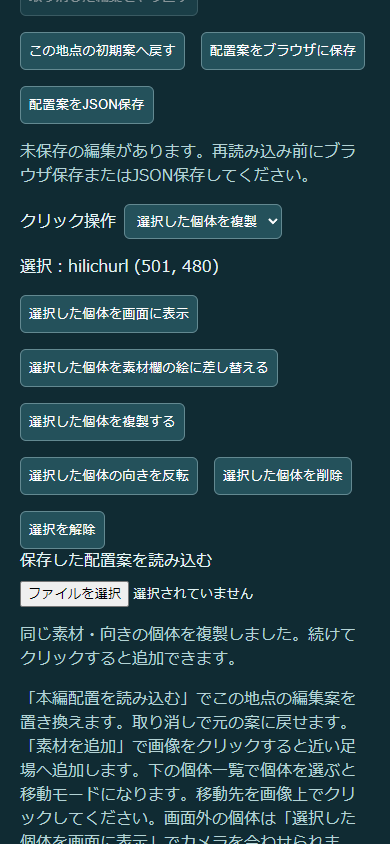
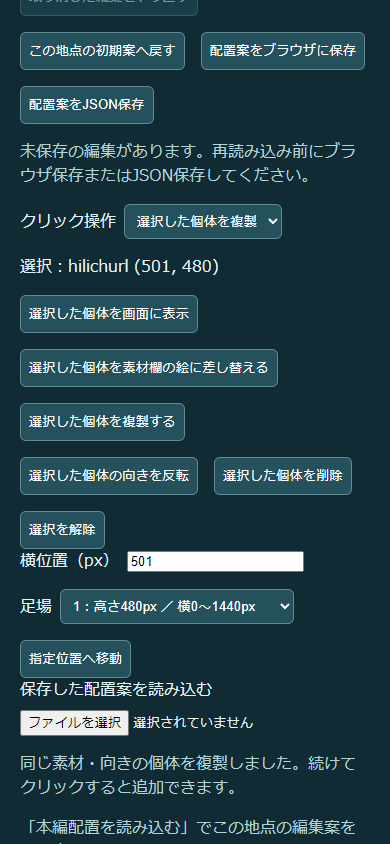
Add precise placement coordinates and platform selection

Changed region(s): [[0.0308, 0.6469, 0.9231, 1.0], [0.7692, 0.7393, 0.8923, 0.7701]]

diff --git a/map-art.html b/map-art.html
@@ -7,7 +7,7 @@
 <p id="browserStatus" class="note" role="status">ブラウザ保存は手動です。全地点の案をこのブラウザ・接続先に保存します。</p>
 <div class="controls"><label>クリック操作 <select id="editMode"><option value="add">素材を追加</option><option value="move">選択した個体を移動</option><option value="copy">選択した個体を複製</option></select></label><span id="selectionStatus">選択なし</span><button id="focusSelected" disabled>選択した個体を画面に表示</button><button id="replaceSelected" disabled>選択した個体を素材欄の絵に差し替える</button><button id="copySelected" disabled>選択した個体を複製する</button><button id="flipSelected" disabled>選択した個体の向きを反転</button><button id="deleteSelected" disabled>選択した個体を削除</button><button id="clearSelection" disabled>選択を解除</button></div>
 <label>保存した配置案を読み込む <input id="import" type="file" accept=".json,application/json"></label><p id="fileStatus" role="status" class="note">読み込むと全地点の編集案を置き換えます。必要な案は先にJSON保存してください。</p>
-<p class="note">「本編配置を読み込む」でこの地点の編集案を置き換えます。取り消しで元の案に戻せます。「素材を追加」で画像をクリックすると近い足場へ追加します。下の個体一覧で個体を選ぶと移動モードになります。移動先を画像上でクリックしてください。画面外の個体は「選択した個体を画面に表示」でカメラを合わせられます。配置座標は変わりません。素材欄で絵を選び「差し替える」を押すと、選択個体の座標・向き・IDを保って絵を変更します。素材ごとの大きさと浮き高さは変わります。「複製する」を押して画像上の置きたい場所をクリックすると、同じ素材・向きの個体を追加します。複製後もクリックを続けて追加できます。終了するにはクリック操作を変更してください。移動・複製・差し替え・反転・削除も取り消せます。「やり直す」で取り消した編集を復元します。取り消した後に新しく編集すると、その地点のやり直し履歴は消えます。別地点へ移っても案はこの画面内で保持します。再読み込みでは最後のブラウザ保存を復元します。未保存の編集と取り消し・やり直し履歴は失われます。別のブラウザや接続先へ移す場合はJSON保存してください。</p>
+<p class="note">「本編配置を読み込む」でこの地点の編集案を置き換えます。取り消しで元の案に戻せます。「素材を追加」で画像をクリックすると近い足場へ追加します。下の個体一覧で個体を選ぶと移動モードになります。移動先を画像上でクリックしてください。画面外の個体は「選択した個体を画面に表示」でカメラを合わせられます。配置座標は変わりません。横位置と足場を指定して「指定位置へ移動」を押すと正確な位置へ移せます。横位置は画面内ではなく地点全体の座標です。素材欄で絵を選び「差し替える」を押すと、選択個体の座標・向き・IDを保って絵を変更します。素材ごとの大きさと浮き高さは変わります。「複製する」を押して画像上の置きたい場所をクリックすると、同じ素材・向きの個体を追加します。複製後もクリックを続けて追加できます。終了するにはクリック操作を変更してください。移動・複製・差し替え・反転・削除も取り消せます。「やり直す」で取り消した編集を復元します。取り消した後に新しく編集すると、その地点のやり直し履歴は消えます。別地点へ移っても案はこの画面内で保持します。再読み込みでは最後のブラウザ保存を復元します。未保存の編集と取り消し・やり直し履歴は失われます。別のブラウザや接続先へ移す場合はJSON保存してください。</p>
 <p class="note">ボスは素材比較画面と同じ仮の大きさです。浮遊素材は足場の基準点から仮の高さだけ離して表示します（一覧に「浮き」を表示）。水・炎など地面側の表現を含む素材は下端を足場へ合わせます。高さは見た目比較用で、本編の飛行高度・当たり判定ではありません。</p>
 <main><figure><figcaption>元PNG</figcaption><canvas id="png" width="960" height="540"></canvas></figure><figure><figcaption>軽量矩形版</figcaption><canvas id="rect" width="960" height="540"></canvas></figure></main>
 <div id="placements"></div><section aria-label="本編配置との差分"><h2>本編配置との差分</h2><button id="compareLive">本編との差分を確認・更新</button><p id="diffSummary" role="status"></p><ul id="diffDetails"></ul><p class="note">同じ個体IDを照合します。比較基準は取得時点の配置です。本編への反映や自動保存は行いません。</p></section><p id="status" role="status">読み込み中</p><script type="module" src="map-art.js"></script></html>

diff --git a/map-art.js b/map-art.js
@@ -1,3 +1,4 @@
+import {setupPlacementPosition} from './placement-position.js';
 import {setupMapNodePicker} from './map-node-picker.js';
 import {loadImageSet} from './sprite-images.js';
 import {setupPlacementPicker} from './placement-picker.js';
@@ -49,6 +50,7 @@ try{
  };
  let lastRenderedDraft=JSON.stringify(drafts);
  for(const n of graph.nodes){const option=document.createElement('option');option.value=n.id;option.textContent=`${n.region}｜${n.name}`;$('node').append(option)}$('node').value='mond-road';
+ const positionEditor=setupPlacementPosition({getNode:node,getSelected:()=>placements().find(e=>e.id===selected),commit:(e,x,y)=>{remember(node().id);e.x=x;e.y=y;render()},report:text=>{$('fileStatus').textContent=text}});
  const nodePicker=setupMapNodePicker({graph,select:$('node'),getDraft:()=>drafts,onChoose:select});
  function node(){return nodes.get($('node').value)}
  function placements(){return drafts.nodes[node().id]??=[]}
@@ -75,7 +77,7 @@ try{
   const describe=e=>`${e.species} (${e.x}, ${e.y}) ${e.flip?'反転':'元の向き'}`;
   const line=text=>{const li=document.createElement('li');li.textContent=text;$('diffDetails').append(li)};
   if(diff){for(const e of diff.added)line(`追加 ${e.id}：${describe(e)}`);for(const e of diff.removed)line(`削除 ${e.id}：${describe(e)}`);for(const e of diff.changed){const names={species:'敵種',x:'横位置',y:'足場の高さ',flip:'向き'};line(`変更 ${e.id}［${e.fields.map(k=>names[k]).join('・')}］：${describe(e.before)} → ${describe(e.after)}`)}}
-  nodePicker.update();
+  nodePicker.update();positionEditor.update();
   window.mapArt={diff,ready:true,node:n.id,nodeCount:nodes.size,camera,profile,count:items.length,selected,editMode:$('editMode').value,placements:structuredClone(items),visuals:items.map(e=>({id:e.id,y:e.y-assets[e.species].hover,hover:assets[e.species].hover,height:assets[e.species].h})),grounded:valid,background:sceneryKey(frame),backgroundFallback:!mapped,backgroundState:background.state,backgroundFile:background.file};
  }
  function remember(id){const history=histories[id]??=[];history.push(structuredClone(drafts.nodes[id]??[]));if(history.length>100)history.shift();delete redos[id]}

diff --git a/placement-position.js b/placement-position.js
@@ -1,0 +1,22 @@
+// Explicit apply keeps unfinished coordinate input out of the placement draft.
+export function setupPlacementPosition({getNode,getSelected,commit,report}){
+ const controls=document.createElement('div');controls.className='controls';
+ controls.innerHTML='<label>横位置（px） <input id="placementX" type="number" min="0" step="any" disabled></label><label>足場 <select id="placementPlatform" disabled></select></label><button id="applyPlacementPosition" disabled>指定位置へ移動</button>';
+ document.getElementById('selectionStatus').closest('.controls').after(controls);
+ const x=controls.querySelector('input'),platform=controls.querySelector('select'),apply=controls.querySelector('button');
+ let signature='';
+ apply.onclick=()=>{
+  const n=getNode(),e=getSelected();if(!e)return;
+  const value=x.value.trim()===''?NaN:Number(x.value),support=n.platforms[Number(platform.value)];
+  if(!Number.isFinite(value)||!support||platform.value===''||value<0||value>n.width||value<support.x||value>support.x+support.w){report('指定位置へ移動できません。選んだ足場の範囲内の横位置を入力してください。配置案は変更していません。');return}
+  if(e.x===value&&e.y===support.y){report('同じ位置です。配置案は変わりません。');return}
+  commit(e,value,support.y);report('指定位置へ移動しました。絵・向き・IDは保持しています。取り消しで戻せます。');
+ };
+ return {update(){
+  const n=getNode(),e=getSelected(),next=JSON.stringify([n.id,n.platforms,e?.id,e?.x,e?.y]);
+  for(const control of [x,platform,apply])control.disabled=!e;
+  if(next===signature)return;signature=next;
+  platform.replaceChildren(...n.platforms.map((p,i)=>{const option=document.createElement('option');option.value=String(i);option.textContent=`${i+1}：高さ${p.y}px ／ 横${Math.max(0,p.x)}〜${Math.min(n.width,p.x+p.w)}px`;return option}));
+  x.max=n.width;x.value=e?String(e.x):'';platform.value=e?String(n.platforms.findIndex(p=>p.y===e.y&&e.x>=p.x&&e.x<=p.x+p.w)):'';
+ }};
+}

diff --git a/CHAT_HANDOFF.md b/CHAT_HANDOFF.md
@@ -390,3 +390,6 @@ map-art.html追加: 本編61仮地点の足場/背景を選択し、元PNGと軽
 
 
 2026-11-17: 秘源機兵・機巧デバイスの縦型浮遊待機候補追加。HoYoLABガイド全身/ゲーム画像、The Nerd Stash掲載展開姿3画像を直接確認し内蔵画像生成。側面/背面/3D未確認。最軽量で橙色核が灰色化したため元画像の橙色3690px中央値#f99f03を既存32/16色枠内に予約。180/135/90px=8499/5393/2429矩形、最軽量71.42%減（FPSではない）。44候補・39ボス分の美術候補。3設定3倍率左右/390px・配置3設定/書出読戻/モバイル検査通過、最終比較画像目視。核/側面発光は残り、彫刻細線は弱い。原資料より正面・対称寄り、浮き40pxは仮値。技/別配置形態/動作/本編戦闘未実装、背景は仮素材。根拠 evidence/config-device-reference-audit.json。
+
+
+2026-11-17: 配置プレビューで選択個体の横位置と足場を直接指定して移動できるようにした。地点全体のX座標（小数可）と足場の高さ/範囲を表示し、明示的な適用まで案は変更しない。範囲外/空欄を拒否、同位置は無変更でredo保持。絵/向き/ID/他個体を保持。入力途中の軽量設定変更で入力維持。新規ブラウザ検査（高所足場、小数、無効値、undo redo、保存復元、地点切替、390px）と既存複製検査通過、モバイル表示目視。本編反映・技変更なし。根拠 evidence/placement-position-test.json。
